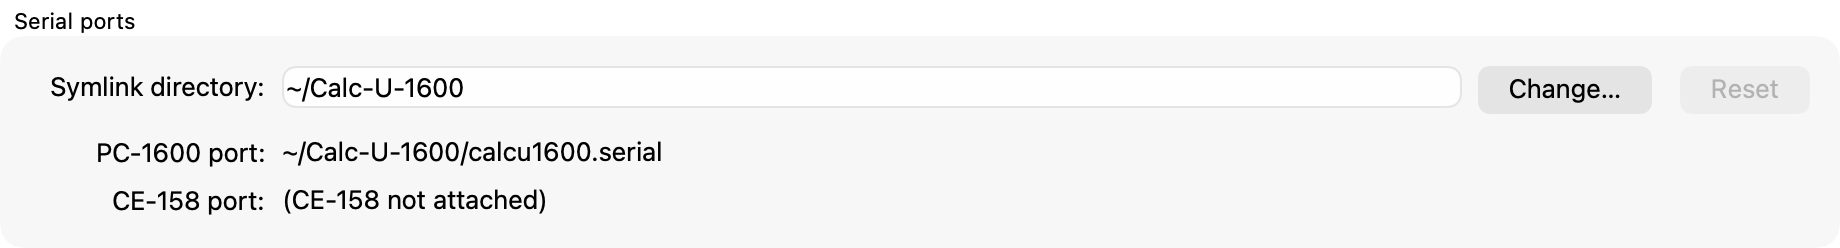
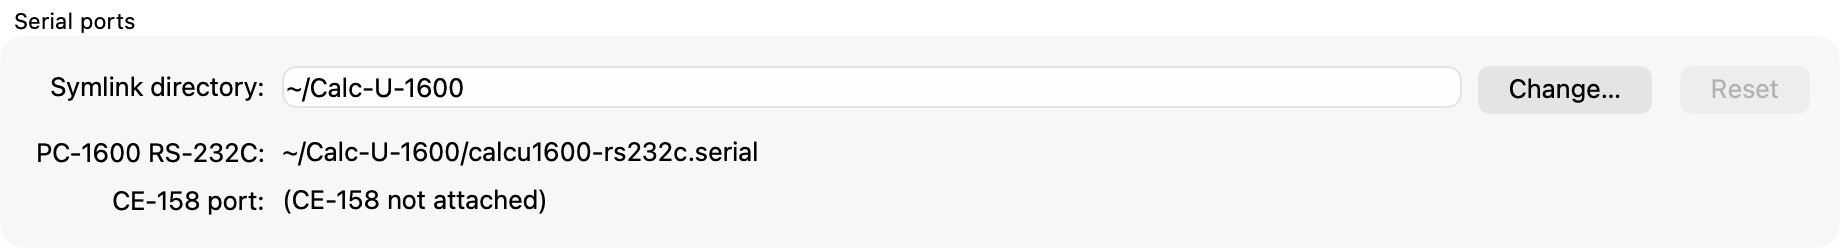
Name the PC-1600 serial port file after its connector
The PC-1600's RS-232C port file is calcu1600-rs232c.serial (was
calcu1600.serial), matching calcu1600-ce158.serial; the later SIO split gets
calcu1600-sio.serial (TODO). No alias for the old name. SharpDataExchange's
pc1600emul device follows in its own repository. Settings labels the row
"PC-1600 RS-232C"; the guide screenshot is regenerated.

Changed region(s): [[0.0, 0.5645, 0.1549, 0.6774], [0.3098, 0.5645, 0.4337, 0.6492]]

diff --git a/Core/Serial/PtySerialLink.hpp b/Core/Serial/PtySerialLink.hpp
@@ -17,8 +17,9 @@
 // terminal program -- opens the slave end at `slavePath()`, or the stable
 // symlink at `stablePath()` (`<linkDir>/<linkName>`), which survives
 // across runs even though the /dev/ttysNNN name does not. Each emulated
-// port passes its own `linkName` so several can share one `linkDir`: the
-// PC-1600's built-in port is `kPC1600LinkName`, the CE-158 interface
+// port passes its own `linkName` so several can share one `linkDir`. Each
+// file is named after its connector (docs/background/Decisions.md): the
+// PC-1600's RS-232C port is `kRS232CLinkName`, the CE-158 interface
 // `kCE158LinkName`.
 //
 // `linkDir` (the constructor argument) is the directory the symlink is
@@ -39,10 +40,10 @@
 // a no-op and `isOpen()` is false.
 class PtySerialLink final : public SerialLink {
 public:
-    static constexpr const char* kPC1600LinkName = "calcu1600.serial";
+    static constexpr const char* kRS232CLinkName = "calcu1600-rs232c.serial";
     static constexpr const char* kCE158LinkName = "calcu1600-ce158.serial";
 
-    explicit PtySerialLink(std::string linkDir = {}, std::string linkName = kPC1600LinkName);
+    explicit PtySerialLink(std::string linkDir = {}, std::string linkName = kRS232CLinkName);
     ~PtySerialLink() override;
     PtySerialLink(const PtySerialLink&) = delete;
     PtySerialLink& operator=(const PtySerialLink&) = delete;

diff --git a/Qt6/app/SettingsDialog.cpp b/Qt6/app/SettingsDialog.cpp
@@ -271,8 +271,8 @@ SettingsDialog::SettingsDialog(MachineController* controller, QWidget* parent)
     // PtySerialLink is POSIX-only (macOS/Linux); on Windows it's an inert
     // stub, so this section is compiled out entirely rather than shown
     // disabled -- there is nothing for it to do there yet.
-    // One folder for every emulated port: the PC-1600's own
-    // (calcu1600.serial) and the CE-158's (calcu1600-ce158.serial).
+    // One folder for every emulated port: the PC-1600's RS-232C
+    // (calcu1600-rs232c.serial) and the CE-158's (calcu1600-ce158.serial).
     QGridLayout* serial = addSection(layout, this, sections, tr("Serial ports"), QStringLiteral("dialog.settings.serial"));
     auto* serialStatusLabel = new QLabel(this);
     serialStatusLabel->setTextInteractionFlags(Qt::TextSelectableByMouse);
@@ -299,7 +299,7 @@ SettingsDialog::SettingsDialog(MachineController* controller, QWidget* parent)
         };
         addPathRow(serial, 0, this, sections, spec);
     }
-    addRowLabel(serial, 1, this, sections, tr("PC-1600 port:"));
+    addRowLabel(serial, 1, this, sections, tr("PC-1600 RS-232C:"));
     serial->addWidget(serialStatusLabel, 1, kValueColumn, 1, 3);
     addRowLabel(serial, 2, this, sections, tr("CE-158 port:"));
     serial->addWidget(ce158StatusLabel, 2, kValueColumn, 1, 3);

diff --git a/Qt6/app/AppSettings.hpp b/Qt6/app/AppSettings.hpp
@@ -155,7 +155,7 @@ inline int dapPort() {
 inline void setDapPort(int port) { backingStore().setValue(QStringLiteral("debug/dapPort"), port); }
 
 // Key: "serial/linkDirectory" -- directory PtySerialLink creates its stable
-// `calcu1600.serial` symlink in. Empty/absent means AppPaths::instanceDir()
+// serial port symlinks (`calcu1600-rs232c.serial`, ...) in. Empty/absent means AppPaths::instanceDir()
 // (the same ~/Calc-U-1600 default everything else uses); MachineController
 // always resolves and passes a concrete directory here.
 inline QString serialLinkDirOverride() {

diff --git a/docs/User-Guide.md b/docs/User-Guide.md
@@ -443,7 +443,7 @@ flowchart LR
       U16["PC-1600 RS-232C<br/>(COM1:)"]
       U158["CE-158 RS-232C"]
     end
-    U16 --> L1["calcu1600.serial"]
+    U16 --> L1["calcu1600-rs232c.serial"]
     U158 --> L2["calcu1600-ce158.serial"]
     L1 --> SDE["SharpDataExchange (sde)"]
     L1 --> T["any terminal program"]
@@ -481,10 +481,10 @@ part of the data, because no driver on the computer side reacts to them.
 
 ```sh
 # computer → PC-1600: start LOAD "COM1:" on the calculator, then
-sde put myprogram.bas --device pc1600emul --port ~/Calc-U-1600/calcu1600.serial
+sde put myprogram.bas --device pc1600emul --port ~/Calc-U-1600/calcu1600-rs232c.serial
 
 # PC-1600 → computer: start this first, then SAVE "COM1:" on the calculator
-sde get myprogram.bas --device pc1600emul --port ~/Calc-U-1600/calcu1600.serial
+sde get myprogram.bas --device pc1600emul --port ~/Calc-U-1600/calcu1600-rs232c.serial
 ```
 
 To avoid typing `--port` every time, store the folder once:

diff --git a/docs/background/Decisions.md b/docs/background/Decisions.md
@@ -429,6 +429,13 @@ authentic speed for the span that matters.
 - **The slot-record layout stays additive** for the planned battery-backed
   module split. Reserve the `batteryBacked` flag and keep
   `ExpansionCard` serialize/deserialize as the single seam for it.
+- **Serial port files are named after their connector:**
+  `calcu1600-rs232c.serial`, `calcu1600-ce158.serial`, and later
+  `calcu1600-sio.serial`. One file per connector; a file carries data only
+  while its connector is selected (PRIME), like a cable in the other
+  socket. No bare `calcu1600.serial` and no alias for an old name.
+  SharpDataExchange's `pc1600emul` device appends the RS-232C name itself,
+  so a rename goes into both repositories.
 
 ### Repository layout
 - **`examples/` is user-facing only.** It ships as the release's examples

diff --git a/README.md b/README.md
@@ -57,9 +57,9 @@ itself. What changed in each release is in [CHANGELOG.md](CHANGELOG.md).
 
 ## Serial port
 
-The emulated PC-1600's RS-232C port (and the CE-158's) appears on your
-computer as a serial port file, `calcu1600.serial` — **macOS and Linux
-only** for now. Point any serial program at it, for example
+The emulated PC-1600's RS-232C port appears on your computer as a serial
+port file, `calcu1600-rs232c.serial` (the CE-158's as
+`calcu1600-ce158.serial`) — **macOS and Linux only** for now. Point any serial program at it, for example
 [SharpDataExchange](https://github.com/tinue/SharpDataExchange) to copy
 programs to and from the calculator. The User Guide's
 [COM ports](docs/User-Guide.md#7-com-ports) chapter has the settings.

diff --git a/CHANGELOG.md b/CHANGELOG.md
@@ -15,6 +15,10 @@
   `$` is hex, a bare number decimal. `"address": "1234"` in a launch
   configuration is now decimal (it was hex), hex without a prefix is
   refused, and `bank: &7` or `"bank": "7"` is no longer silently ignored.
+- **The PC-1600's serial port file is `calcu1600-rs232c.serial`** (was
+  `calcu1600.serial`): serial port files are named after their connector,
+  like `calcu1600-ce158.serial`. SharpDataExchange 0.3.2 looks for the new
+  name with `--device pc1600emul`.
 - **The debugger checks its settings** against one list of keys, in a
   preset's `debug:` block (with the line number) and in a launch
   configuration alike: `after: foo`, `cpu: x86`, `boot: foo` or a quoted

diff --git a/TODO.md b/TODO.md
@@ -96,7 +96,10 @@ obligations.
 
 - **RS-232C / SIO connector mux.** PRIME (the PRIM select) is tracked in
   `TC8576F::rs232Selected()`; both connectors still share the one
-  `SerialLink`.
+  `SerialLink`, whose file is `calcu1600-rs232c.serial`. The split gives
+  SIO its own `calcu1600-sio.serial` (Decisions.md, "Serial port files are
+  named after their connector"), carrying data only while PRIME selects
+  SIO; `calcu1600-rs232c.serial` then carries RS-232C only.
 - Capture the exact on-wire `SAVE"COM1:"`/`LOAD"COM1:"` framing from a
   real ROM trace, and do an end-to-end round-trip against real
   SharpDataExchange.

diff --git a/docs/developer/PC1600-Serial-Port.md b/docs/developer/PC1600-Serial-Port.md
@@ -10,7 +10,7 @@ about the implementation; for using the port, see the User Guide,
 
 **Transport: host pseudo-terminal.** `posix_openpt`/`grantpt`/`unlockpt`/
 `ptsname` give a `/dev/ttysNNN` slave that any serial tool can open
-like a real port. A stable `calcu1600.serial` symlink is the documented
+like a real port. A stable `calcu1600-rs232c.serial` symlink is the documented
 target, so the per-run `ttysNNN` name never leaks to the user. The
 symlink's folder is **Settings ▸ Serial ports ▸ Symlink directory**
 (default `~/Calc-U-1600`).
